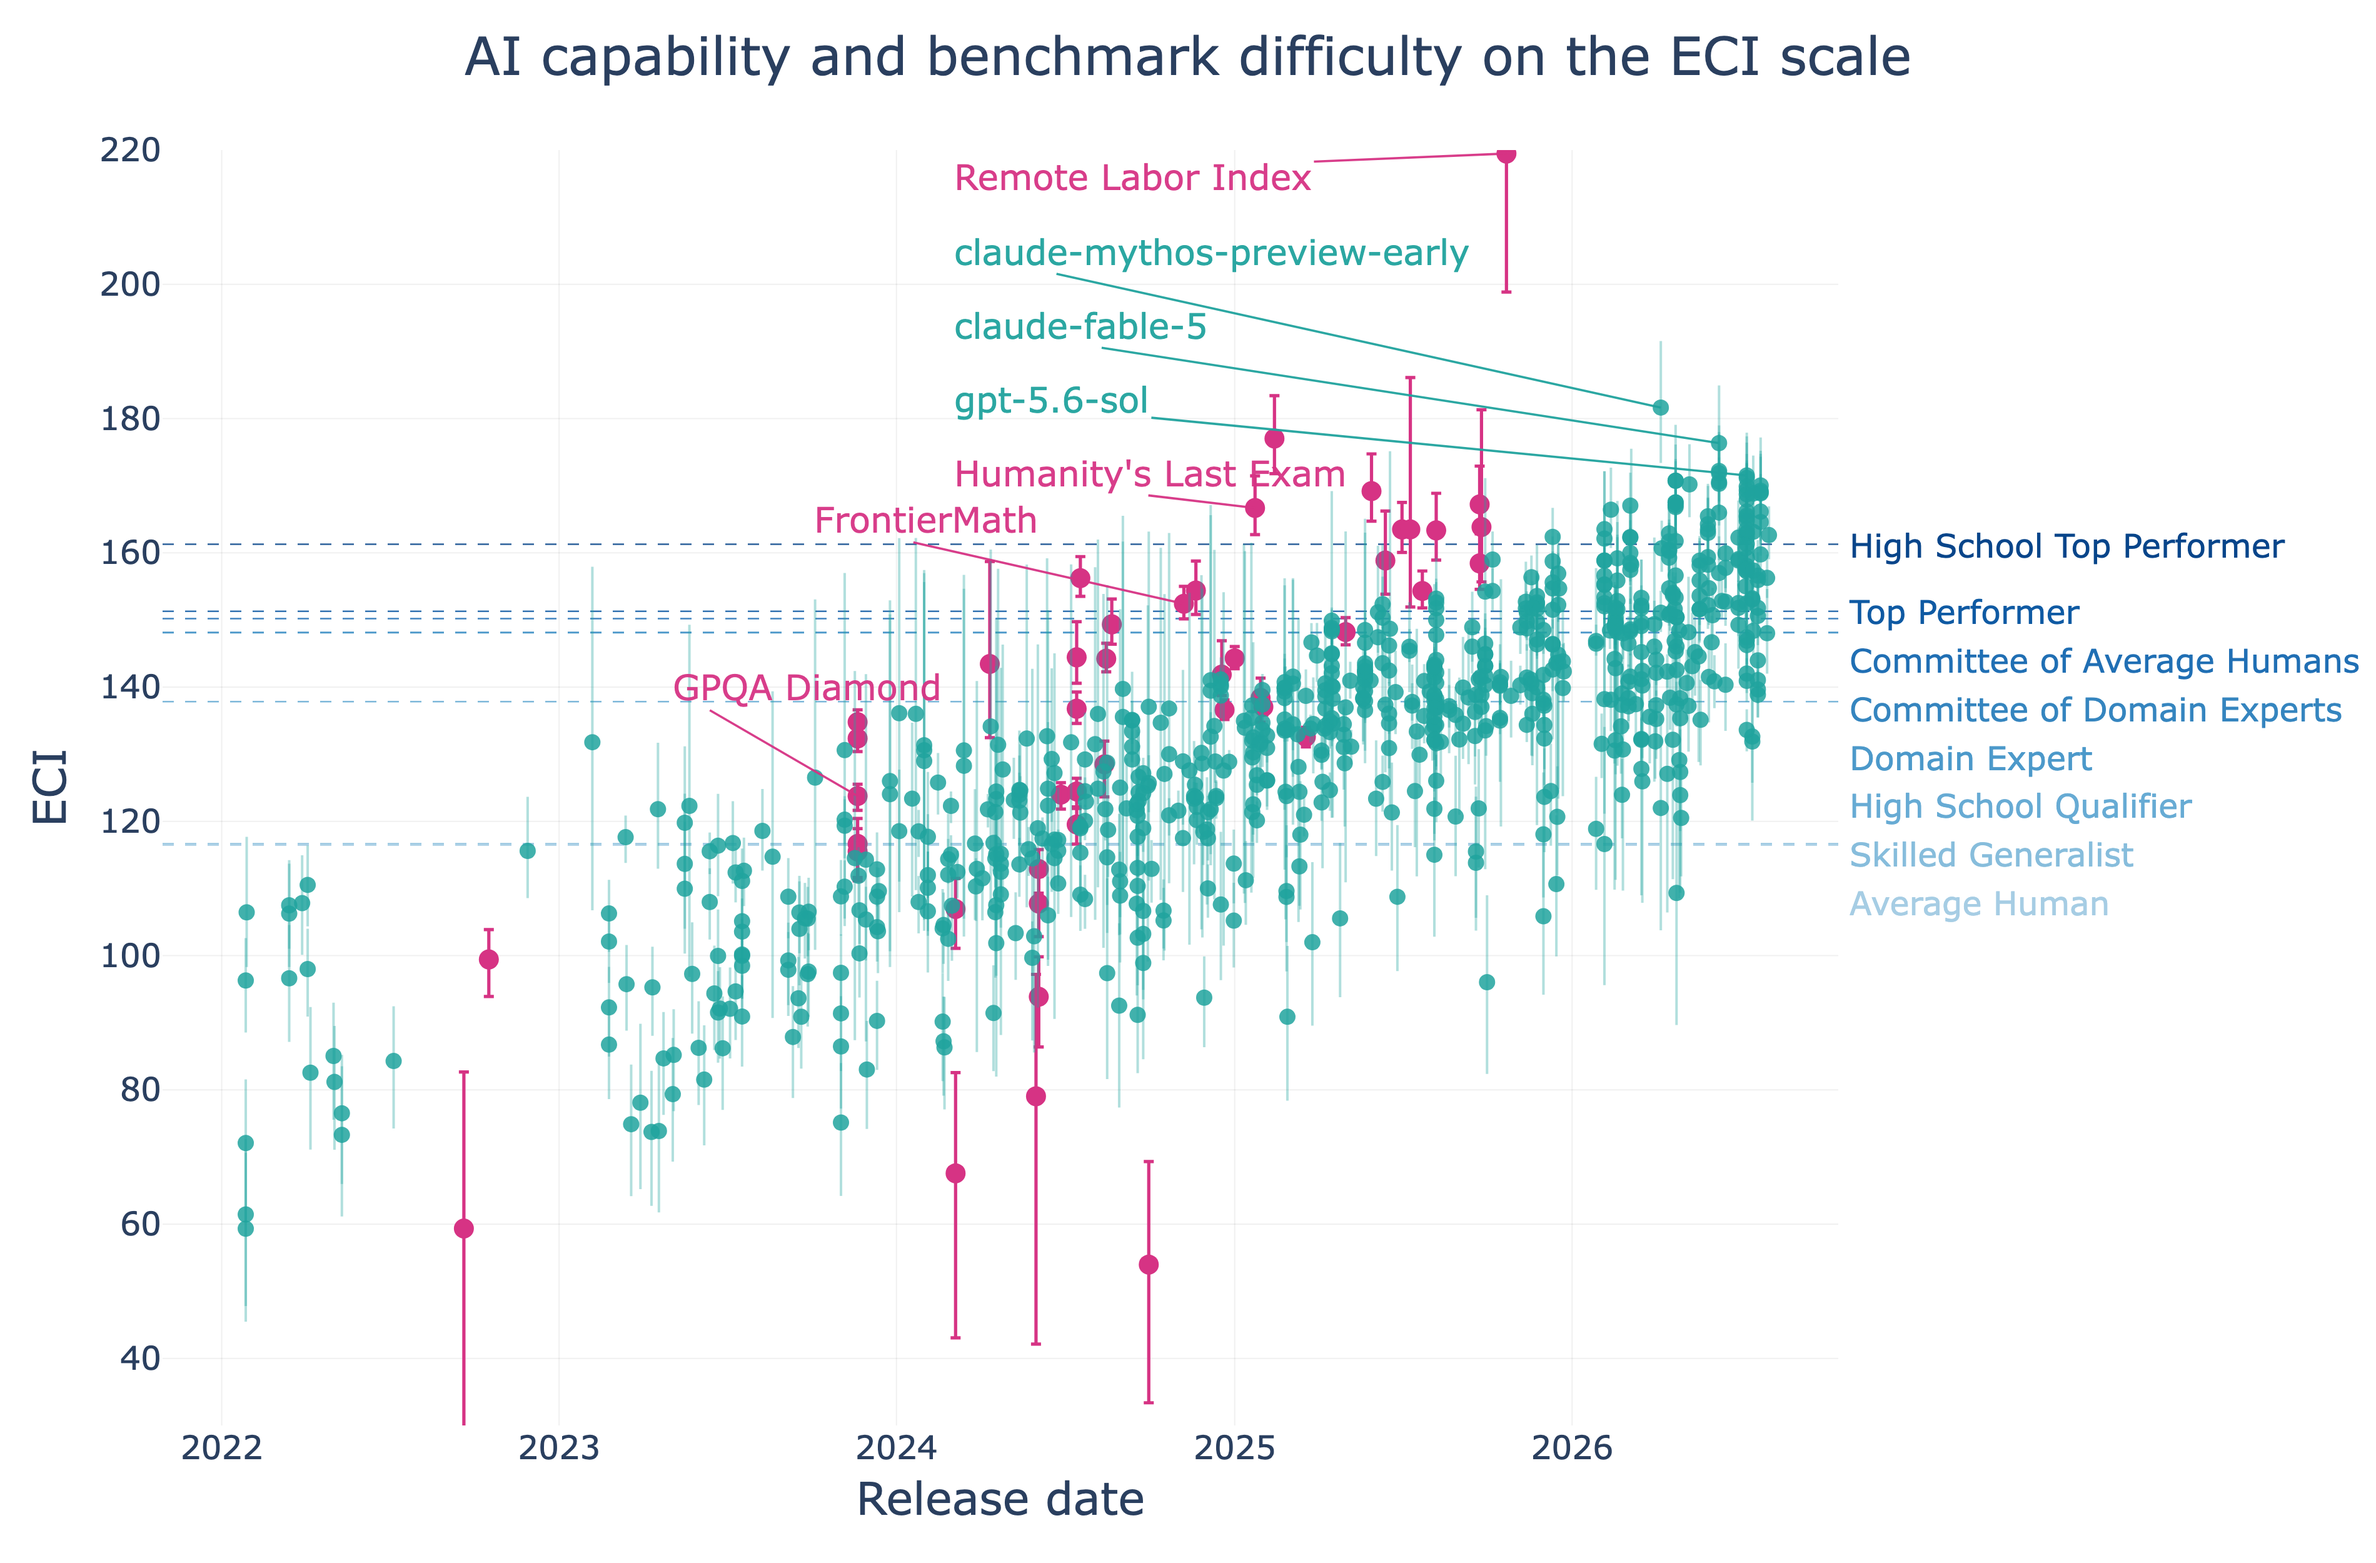
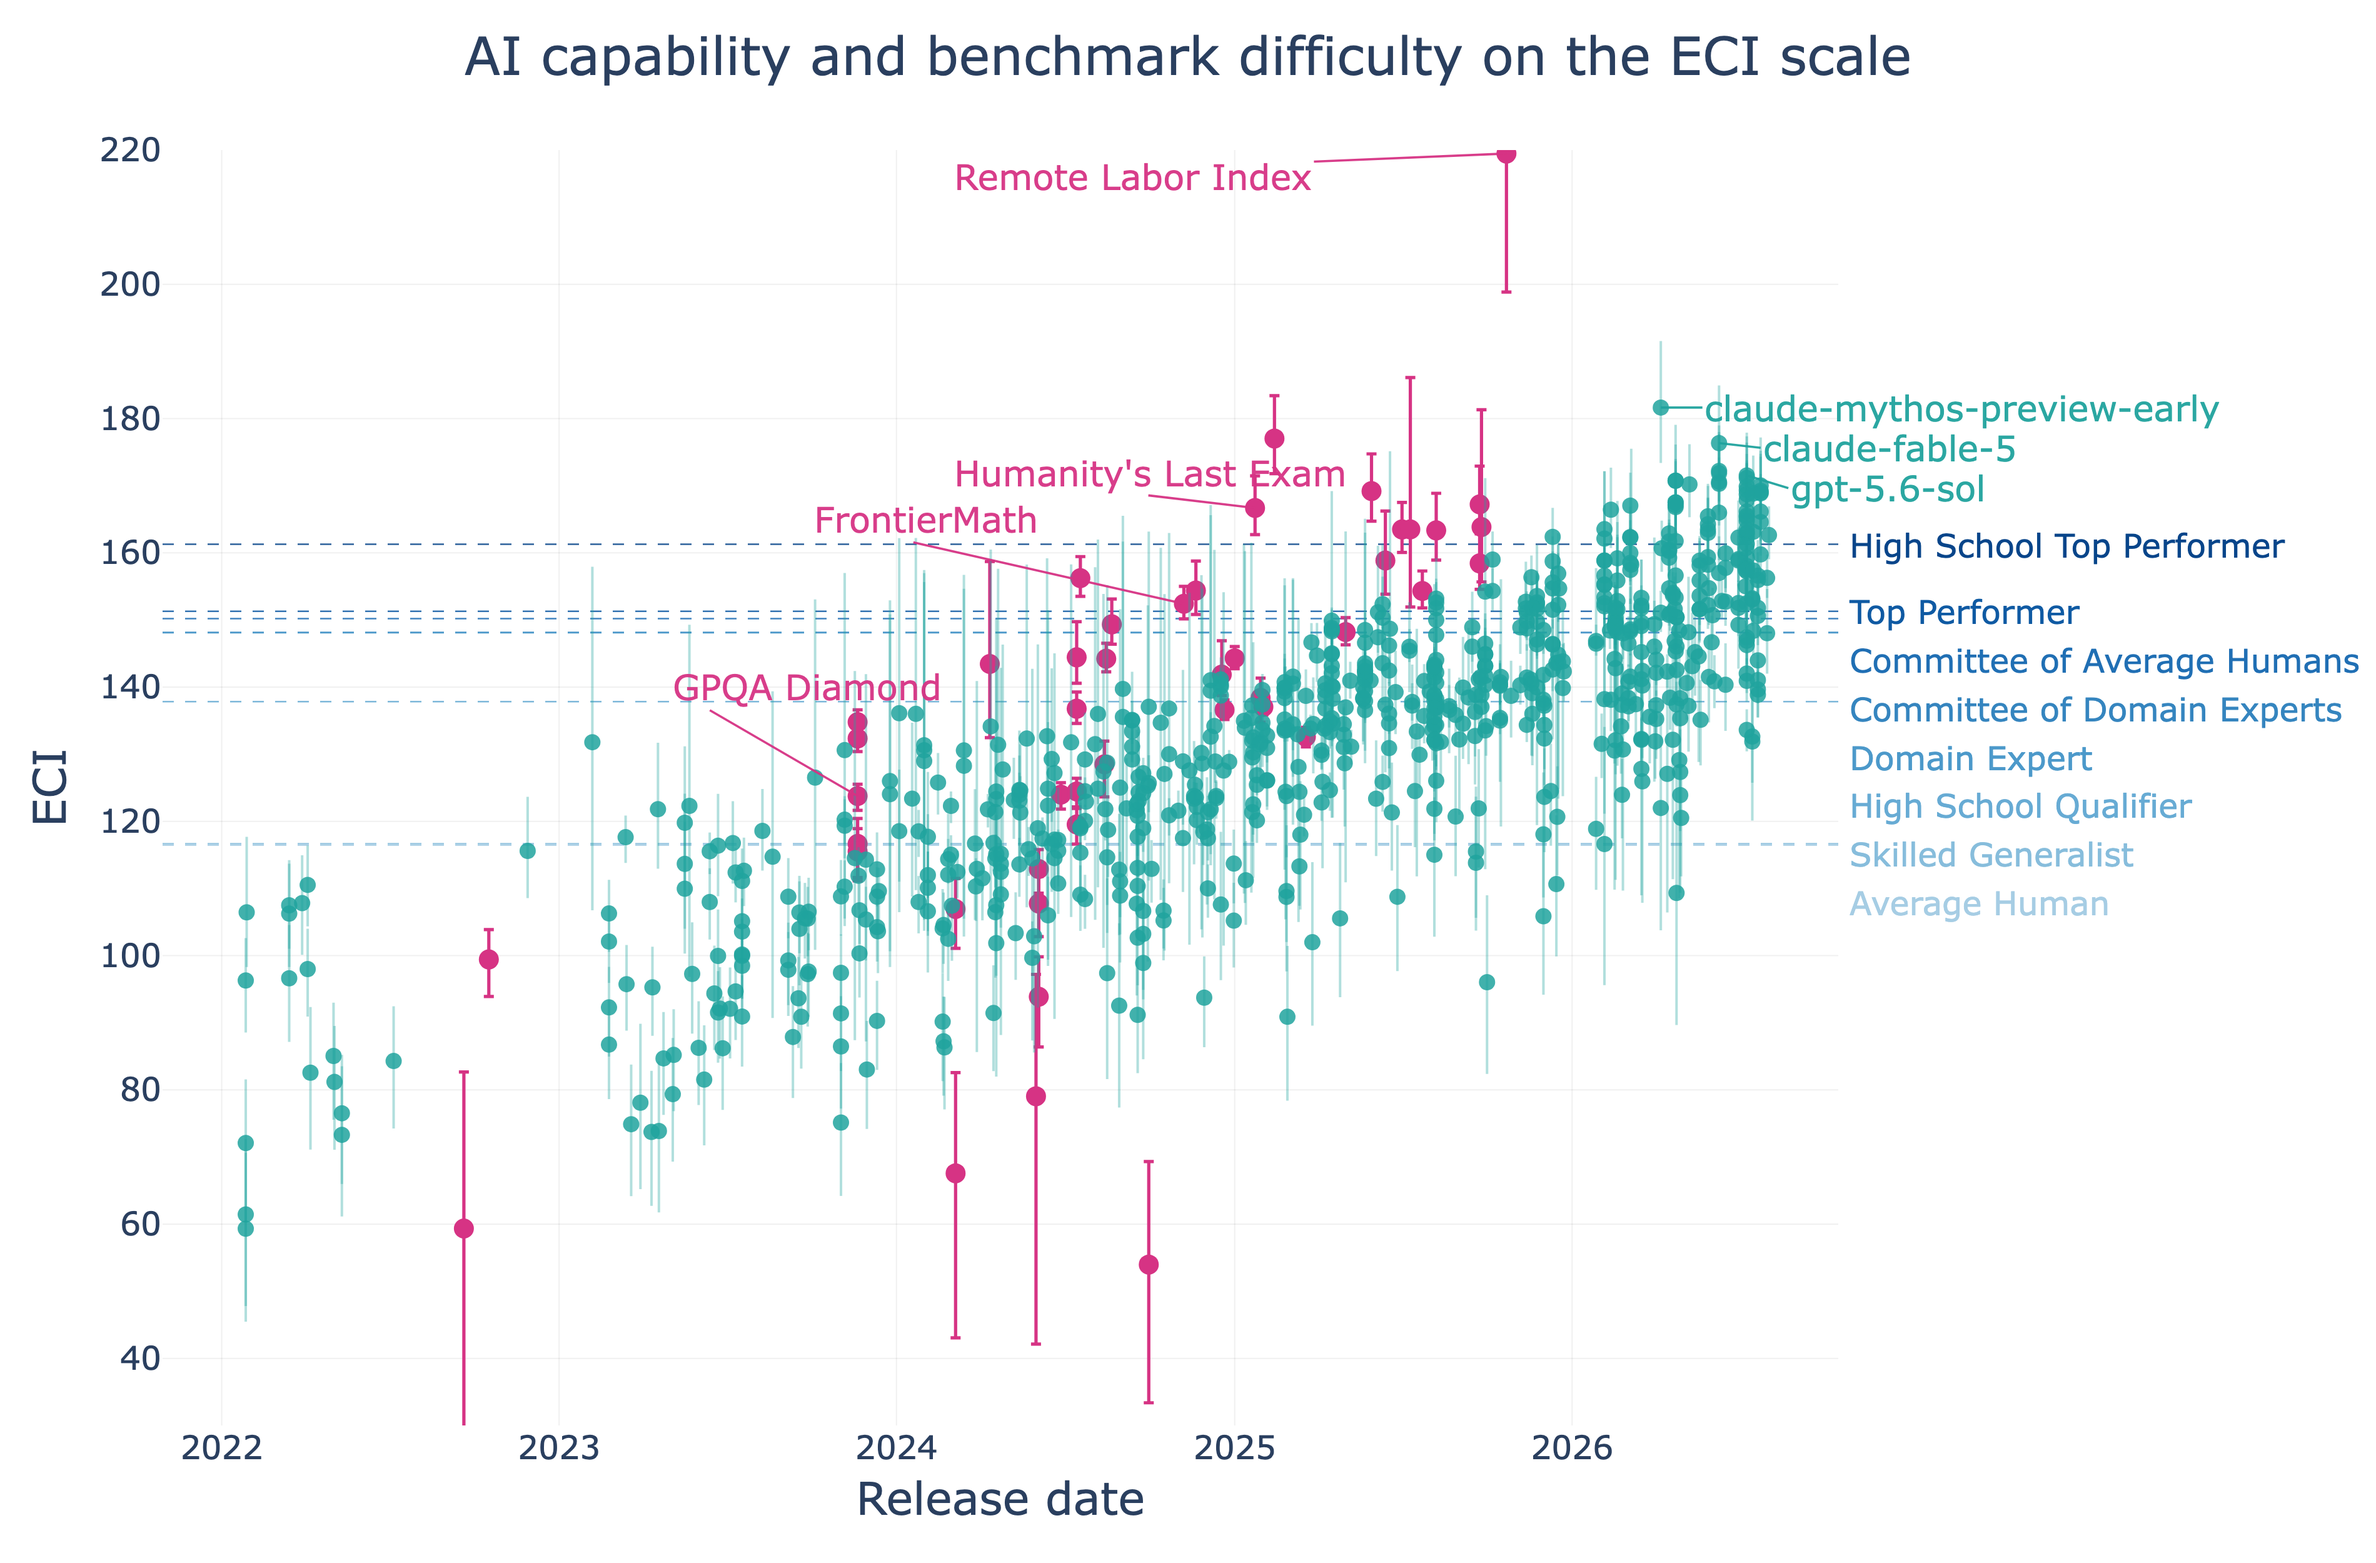
Timeline figure: model labels sit right of their points

Changed region(s): [[0.6832, 0.2496, 0.9316, 0.3432], [0.4037, 0.156, 0.6211, 0.2184], [0.4037, 0.2496, 0.4968, 0.2808]]

diff --git a/blogpost/figures/make_timeline_plotly.py b/blogpost/figures/make_timeline_plotly.py
@@ -67,9 +67,10 @@ LABEL_LOW = {
 # without touching it.
 LABEL_HIGH_BENCH = ["Remote Labor Index", "Humanity's Last Exam"]
 HIGH_COL_X = "2024-03-01"
-# The last slot sits below the High School Top Performer reference line
-# (~161), so the dashed line never runs through the label text.
-HIGH_COL_Y = [216, 205, 194, 183, 172, 157]
+# Two slots only (RLI, HLE): the model labels sit RIGHT of their own points
+# instead, where the top-right corner above the tier names is empty. The
+# second slot stays near HLE's own height so its leader stays short.
+HIGH_COL_Y = [216, 172]
 N_TOP_MODELS = 3
 _EFFORTS = {"unknown", "max", "xhigh", "high", "medium", "low", "minimal",
             "promax", "proxhigh", "prohigh", "promedium", "prolow"}
@@ -209,7 +210,16 @@ def main(results: Path, tag: str, out_dir: Path = HERE) -> None:
 
     high = [(dif[dif["name"] == n].iloc[0], "#d63384")
             for n in LABEL_HIGH_BENCH if len(dif[dif["name"] == n])]
-    seen = set()
+    # Sorted by target height, then paired with the column top-down: leaders
+    # then fan out without crossing.
+    high.sort(key=lambda t: -float(t[0]["mean"]))
+    for (r, color), y in zip(high, HIGH_COL_Y):
+        _label(r, (HIGH_COL_X, y), color)
+
+    # Top models: label just RIGHT of each point, running into the empty
+    # top-right corner (the tier names start lower, at ~161). Slots are the
+    # points' own heights, nudged apart top-down so the texts never touch.
+    model_rows, seen = [], set()
     for _, r in ai.sort_values("mean", ascending=False).iterrows():
         base = _base_name(r["name"])
         if base in seen:
@@ -217,15 +227,17 @@ def main(results: Path, tag: str, out_dir: Path = HERE) -> None:
         seen.add(base)
         r = r.copy()
         r["name"] = base
-        high.append((r, "#20a39e"))
+        model_rows.append(r)
         if len(seen) == N_TOP_MODELS:
             break
-    # Sorted by target height, then paired with the column top-down: leaders
-    # then fan out without crossing.
-    high.sort(key=lambda t: -float(t[0]["mean"]))
-    for (r, color), y in zip(high, HIGH_COL_Y):
-        _label(r, (HIGH_COL_X, y), color)
-    print(f"  labelled high: {[r['name'] for r, _ in high]}")
+    prev = np.inf
+    for r in model_rows:                        # already strongest-first
+        y = min(float(r["mean"]), prev - 6.0)   # ~one text height apart
+        prev = y
+        anchor_x = (r["release_date"] + pd.Timedelta(days=45)).strftime("%Y-%m-%d")
+        _label(r, (anchor_x, y), "#20a39e")
+    print(f"  labelled high: {[r['name'] for r, _ in high]} "
+          f"+ models right of their points: {[r['name'] for r in model_rows]}")
     if fig.layout.legend.grouptitlefont is not None:
         fig.layout.legend.grouptitlefont.size = 16
 
